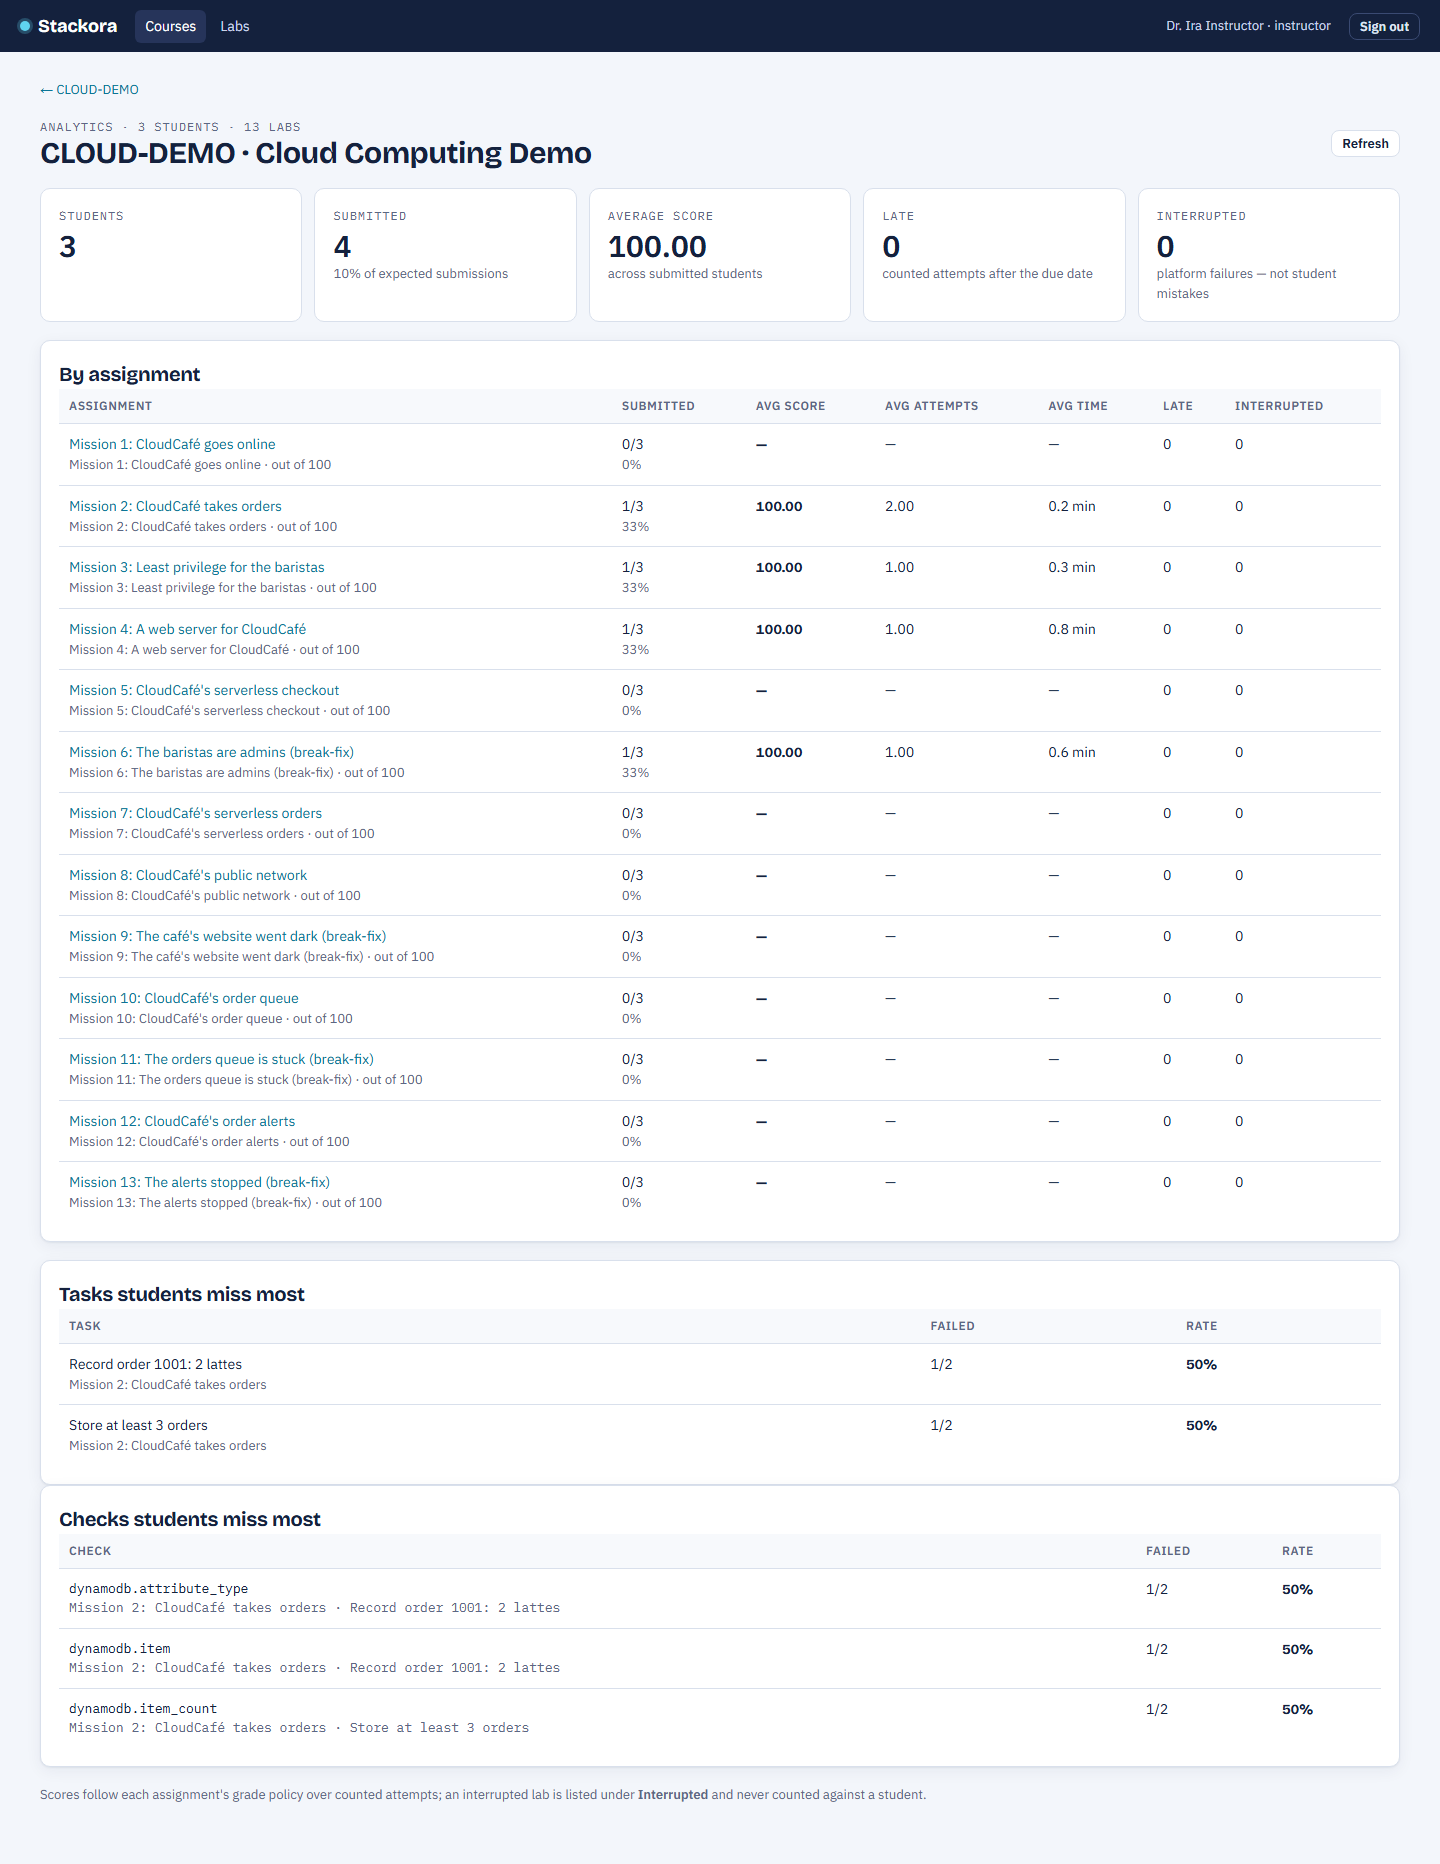
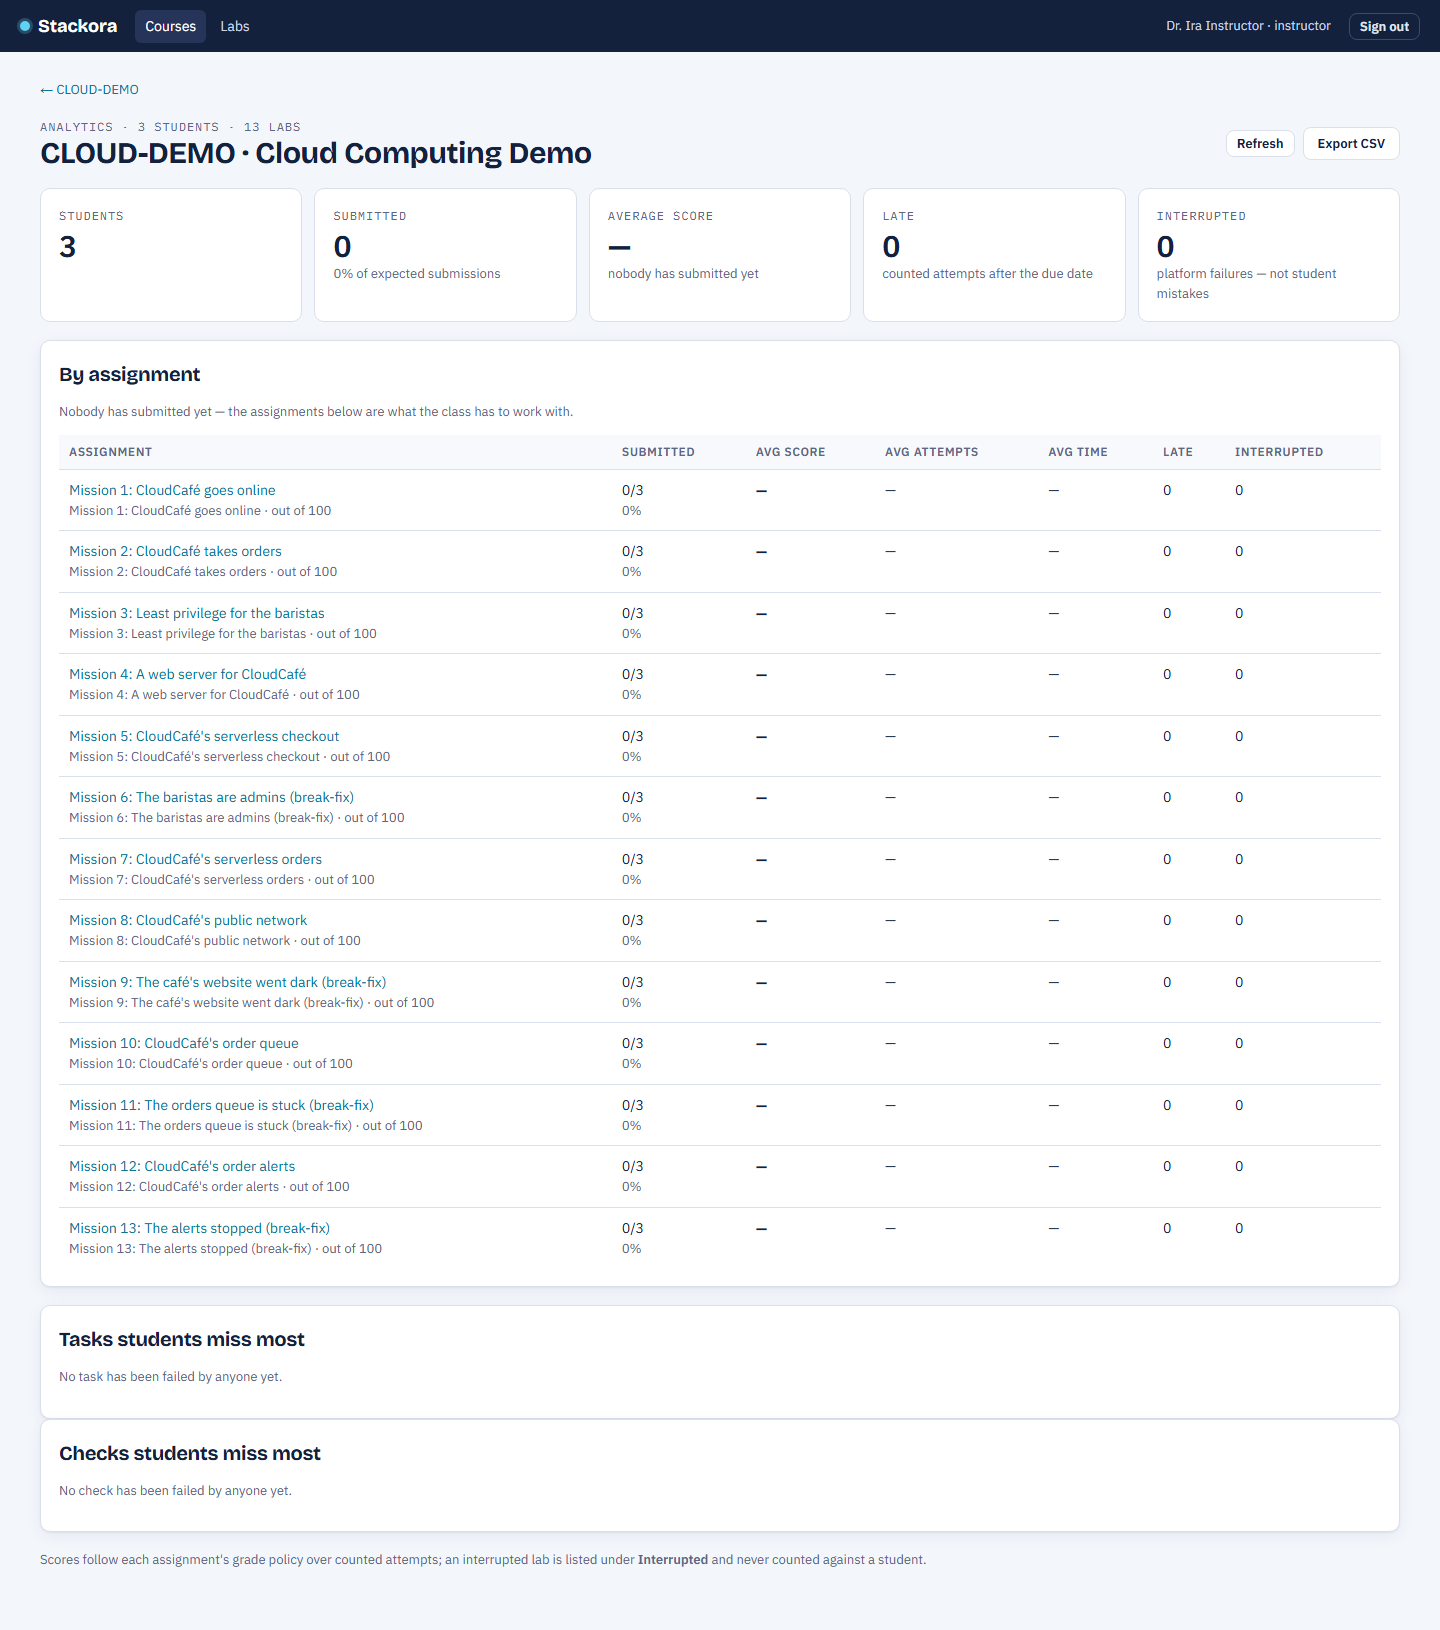
feat(analytics): export course analytics as CSV; pin CI to ubuntu-24.04
GET /api/instructor/courses/{id}/analytics.csv (deferred in D52) returns one
row per assignment plus an "All labs" totals row from the same computation
as the page, with the gradebook's formula neutralisation (safe() is now
shared) and the same access rule. The analytics page gets an Export CSV
button.

CI jobs pin ubuntu-24.04 ahead of ubuntu-latest moving to Ubuntu 26.

Verified: analytics + gradebook + authz coverage 20 passed; ruff and tsc
clean; E2E instructor-analytics + instructor-ops 3 passed (STATUS M8).

diff --git a/apps/web/e2e/instructor-analytics.spec.ts b/apps/web/e2e/instructor-analytics.spec.ts
@@ -49,6 +49,15 @@ test("instructor opens course analytics: metrics, assignment table and ranked vi
   await expect(page.getByTestId("most-missed-checks")).toBeVisible();
   await expect(page.getByText("an interrupted lab is listed under", { exact: false })).toBeVisible();
 
+  // the table exports as CSV: one row per lab plus the "All labs" totals row
+  const download = page.waitForEvent("download");
+  await page.getByTestId("export-analytics").click();
+  const csv = (await import("node:fs")).readFileSync((await (await download).path())!, "utf-8").replace(/^/, "");
+  const lines = csv.trim().split(/\r?\n/);
+  expect(lines[0]).toBe("course_code,assignment,lab,max_score,students,submitted,submission_rate_pct,counted_attempts,avg_attempts_used,avg_score,avg_completion_minutes,late_submissions,interruptions,interruption_reasons");
+  expect(lines.length).toBe(await page.getByTestId("assignment-stat").count() + 2);
+  expect(lines[lines.length - 1]).toContain("CLOUD-DEMO,All labs");
+
   // back to the course
   await page.getByRole("link", { name: /← CLOUD-DEMO/ }).click();
   await page.waitForURL(/\/instructor\/courses\/[^/]+$/);

diff --git a/apps/web/app/instructor/courses/[id]/analytics/page.tsx b/apps/web/app/instructor/courses/[id]/analytics/page.tsx
@@ -57,7 +57,10 @@ export default function Analytics() {
               <div className="eyebrow">Analytics · {t.students} students · {t.assignments} {t.assignments === 1 ? "lab" : "labs"}</div>
               <h1>{s.course.code} · {s.course.title}</h1>
             </div>
-            <button className="small" onClick={() => void load()}>Refresh</button>
+            <div className="row" style={{ gap: 8 }}>
+              <button className="small" onClick={() => void load()}>Refresh</button>
+              {!empty && <a className="btn small" href={`/api/instructor/courses/${id}/analytics.csv`} data-testid="export-analytics">Export CSV</a>}
+            </div>
           </div>
           <ErrorBanner error={error} />
 

diff --git a/services/api/app/instructor/gradebook.py b/services/api/app/instructor/gradebook.py
@@ -174,16 +174,16 @@ async def gradebook(course_id: uuid.UUID, user: User = Depends(Authz(Action.resu
     return {"course": {"id": str(c.id), "code": c.code, "title": c.title}, "assignments": cols, "students": rows}
 
 
+def safe(v: Any) -> str:
+    s = "" if v is None else str(v)
+    return "'" + s if s[:1] in ("=", "+", "-", "@", "\t", "\r") else s  # spreadsheet formula injection
+
+
 def _csv(course: Course, assignments: list[Assignment], students: list[User], cells: dict[tuple, Cell],
          labs: dict[uuid.UUID, str]) -> str:
     buf = io.StringIO()
     w = csv.writer(buf, lineterminator="\r\n")
     w.writerow(CSV_COLUMNS)
-
-    def safe(v: Any) -> str:
-        s = "" if v is None else str(v)
-        return "'" + s if s[:1] in ("=", "+", "-", "@", "\t", "\r") else s  # spreadsheet formula injection
-
     for u in students:
         for a in assignments:
             x = cells[(u.id, a.id)]
@@ -241,3 +241,41 @@ async def course_analytics(course_id: uuid.UUID, user: User = Depends(Authz(Acti
     so this never reaches a sandbox."""
     c = await load_course_for_staff(db, user, course_id)
     return await compute_analytics(db, c)
+
+
+ANALYTICS_CSV_COLUMNS = ["course_code", "assignment", "lab", "max_score", "students", "submitted",
+                         "submission_rate_pct", "counted_attempts", "avg_attempts_used", "avg_score",
+                         "avg_completion_minutes", "late_submissions", "interruptions", "interruption_reasons"]
+
+
+def _pct(rate: float) -> float:
+    return round(rate * 100, 1)
+
+
+def _analytics_csv(stats: dict[str, Any]) -> str:
+    """One row per assignment, then an "All labs" totals row. The ranked failure lists stay on the page
+    (they are top-N views, not a table); interruptions keep their own columns, apart from the scores."""
+    buf = io.StringIO()
+    w = csv.writer(buf, lineterminator="\r\n")
+    w.writerow(ANALYTICS_CSV_COLUMNS)
+    code = stats["course"]["code"]
+    for r in stats["assignments"]:
+        reasons = "; ".join(f"{k}: {v}" for k, v in r["interruption_reasons"].items())
+        w.writerow([safe(v) for v in (
+            code, r["title"], r["lab_title"], r["max_score"], r["students"], r["submitted"],
+            _pct(r["submission_rate"]), r["attempts"], r["avg_attempts_used"], r["avg_score"],
+            r["avg_completion_minutes"], r["late_submissions"], r["interruptions"], reasons)])
+    t = stats["totals"]
+    w.writerow([safe(v) for v in (
+        code, "All labs", "", "", t["students"], t["submissions"], _pct(t["submission_rate"]), "", "",
+        t["avg_score"], "", t["late_submissions"], t["interruptions"], "")])
+    return buf.getvalue()
+
+
+@router.get("/courses/{course_id}/analytics.csv")
+async def course_analytics_csv(course_id: uuid.UUID, user: User = Depends(Authz(Action.results_view)),
+                               db: AsyncSession = Depends(get_db)):
+    """The per-assignment analytics table as CSV, from the same computation as the page (same access rule)."""
+    c = await load_course_for_staff(db, user, course_id)
+    text = _analytics_csv(await compute_analytics(db, c))
+    return _download(text, f"{_slug(c.code)}-analytics-{st.now():%Y%m%d}.csv")

diff --git a/services/api/tests/test_course_analytics.py b/services/api/tests/test_course_analytics.py
@@ -7,6 +7,8 @@ number of queries, so it does not become an N+1 as a class gets bigger.
 
 from __future__ import annotations
 
+import csv
+import io
 from dataclasses import replace
 from datetime import timedelta
 from decimal import Decimal
@@ -165,6 +167,41 @@ async def test_analytics_is_owner_scoped(world, fake_runner):
     assert (await admin.get(f"{B}/courses/{world.course.id}/analytics")).status_code == 200
     own = await login(world.instructor)
     assert (await own.get(f"{B}/courses/{world.course.id}/analytics")).status_code == 200
+    csv_url = f"{B}/courses/{world.course.id}/analytics.csv"
+    assert (await other.get(csv_url)).status_code == 404
+    assert (await stu.get(csv_url)).status_code == 403
+    assert (await admin.get(csv_url)).status_code == 200
+
+
+async def test_analytics_csv_matches_the_page(world, fake_runner):
+    """The export is the per-assignment table plus an "All labs" totals row, from the same computation as
+    the JSON, and a title that looks like a spreadsheet formula is neutralised like the gradebook's."""
+    await submit(world, "partial")
+    await submit(world, "full")
+    async with sessionmaker()() as db:
+        a = await db.get(Assignment, world.assignment.id)
+        a.title = "=HYPERLINK(\"x\")"
+        await db.commit()
+
+    c = await login(world.instructor)
+    page = (await c.get(f"{B}/courses/{world.course.id}/analytics")).json()
+    r = await c.get(f"{B}/courses/{world.course.id}/analytics.csv")
+    assert r.status_code == 200 and r.headers["content-type"].startswith("text/csv")
+    assert "analytics" in r.headers["content-disposition"]
+    rows = list(csv.DictReader(io.StringIO(r.text.lstrip(""))))
+    assert len(rows) == 2
+
+    row, total = rows
+    want = page["assignments"][0]
+    assert row["assignment"] == "'=HYPERLINK(\"x\")"
+    assert row["course_code"] == world.course.code and row["lab"] == want["lab_title"]
+    assert row["max_score"] == "100.00" and row["submitted"] == "1" and row["counted_attempts"] == "2"
+    assert row["submission_rate_pct"] == "50.0" and row["avg_score"] == "100.00"
+    assert row["avg_attempts_used"] == "2.00" and row["interruptions"] == "0"
+
+    assert total["assignment"] == "All labs"
+    assert total["students"] == "2" and total["submitted"] == "1"
+    assert total["submission_rate_pct"] == "50.0" and total["avg_score"] == page["totals"]["avg_score"]
 
 
 async def test_analytics_issues_a_fixed_number_of_queries(world, fake_runner):

diff --git a/docs/STATUS.md b/docs/STATUS.md
@@ -128,8 +128,10 @@ Legend: ☐ todo · ◐ in progress · ☑ done + verified (evidence noted)
 | M2 | Refuse insecure secrets at startup: API (`secret_key`, `runner_secret`) when `CL_DEMO_MODE=false`; runner (`RUNNER_SECRET`) always; known dev defaults / `change-me` / < 32 chars | ☑ | New `tests/test_config.py` in both services; API **12 passed**, full fast suite **363 passed, 53 deselected** (779 s); runner image rebuilt → `python -m pytest -q` **31 passed** (incl. Docker, 238 s). Dev/test secrets in compose raised to valid values; `production.env.example` / `runner.env.example` now document `openssl rand -hex 32` (2026-10-05) |
 | M3 | Web dependencies: `next` 15.5.27 (latest 15.x), npm audit highs fixed (`postcss` 8.5.29, `sharp` 0.35.5 overrides), `npm install` fallback removed from the web Dockerfile; Next 16.x evaluated (report in D56) | ☑ | `npm audit` **0 vulnerabilities**; `npm run typecheck` clean; `next build` clean; `npm ci`-only web image built; full Playwright **35/35 passed** (14.3 min, runner-local-2 registered; first run was 34/35 on a one-off `runtime_unavailable` "no healthy runner" immediately after `fleet.spec`'s drain/resume — not reproduced, logged for M8 investigation); screenshots regenerated by the suite were reverted (dynamic content, unrelated to this item) (2026-10-05) |
 | M4 | Python deps: `pip-audit` on both requirement sets, fix every advisory (only what's needed) plus patch releases | ☑ | Before: pyjwt 2.10.1 (20), cryptography 46.0.1 (13), python-multipart 0.0.20 (12), starlette 0.48.0 (12, both services). After: **pip-audit reports no known vulnerabilities** on `services/api/requirements.txt` and `services/runner/requirements.txt`. Bumps: fastapi 0.142.2 (lifts the starlette `<1.0` cap; starlette resolves to 1.7.0), pyjwt 2.15.1, cryptography 50.0.2, python-multipart 0.0.32, plus patch releases sqlalchemy 2.0.54, pydantic 2.11.10, boto3 1.40.76, pyyaml 6.0.3. Fallout found and fixed: FastAPI 0.142 stores included routers as `_IncludedRouter`, so the flat `app.routes` walks in `test_authz_coverage.py` (which then silently passed **vacuously** — only the allowlist test failed) and `test_signing.py::test_no_exec_endpoint` missed most routes; both now use the public `iter_route_contexts`, and an OpenAPI-surface guard pins the walk so it can't go vacuous again. Full API suite incl. Docker: **415 passed, 1 failed** (the walk test; scored as an M4 fix, re-run green `test_authz_coverage.py` **10 passed**); runner suite **31 passed** (real Docker). Final combined full-suite re-run recorded under M6 (2026-10-05) |
-| M6 | CI + lint + architecture guard: `.github/workflows/ci.yml` (ruff, architecture test, fast API suite on Postgres, runner unit tests, web typecheck + build), `ruff.toml` (E4/E7/E9/F), `tests/test_architecture.py` (the file CLAUDE.md named did not exist) | ◐ | `ruff check services` (0.16.10) **all checks passed** after removing unused imports/variables (no behaviour change; `I` → `INS` in the role matrix for E741). `tests/test_architecture.py` in the API container **3 passed, 1 skipped** (runner half skipped there, runs in CI). Full fast suite with the lint edits **367 passed, 1 skipped, 53 deselected** (722 s); runner `-m "not docker"` **20 passed**. The workflow itself has not run on GitHub yet: it turns ☑ after its first green run |
+| M6 | CI + lint + architecture guard: `.github/workflows/ci.yml` (ruff, architecture test, fast API suite on Postgres, runner unit tests, web typecheck + build), `ruff.toml` (E4/E7/E9/F), `tests/test_architecture.py` (the file CLAUDE.md named did not exist) | ◐ | `ruff check services` (0.16.10) **all checks passed** after removing unused imports/variables (no behaviour change; `I` → `INS` in the role matrix for E741). `tests/test_architecture.py` in the API container **3 passed, 1 skipped** (runner half skipped there, runs in CI). Full fast suite with the lint edits **367 passed, 1 skipped, 53 deselected** (722 s); runner `-m "not docker"` **20 passed**. First GitHub run (`37367075073`): **Web typecheck + build** and **Runner unit tests** green; API and Ruff were cancelled before starting (*job was not acquired by Runner of type hosted* — a GitHub capacity issue). Jobs pinned to `ubuntu-24.04` (`ubuntu-latest` moves to Ubuntu 26 on 2026-10-19). Turns ☑ after a fully green run |
 | M5 | Terminal image: AWS CLI pinned (2.37.1, the version the suites were green on) and ttyd 1.7.7, both **sha256-verified**; amd64 + arm64 via `TARGETARCH`; versions as image labels | ☑ | amd64 build: `aws-cli/2.37.1`, `ttyd 1.7.7`, uid 10002; a wrong ttyd hash **fails the build**; arm64 (`buildx --platform linux/arm64`) builds and runs (`aarch64`, same versions). `cloudlabs/terminal:dev` rebuilt from it → docker-marked API suite **53 passed** (46 min: real terminal WebSocket, job containers, sandbox grading). With the fast run: **420 passed, 1 skipped** in total. Browser E2E not re-run on this image (2026-10-06) |
+| M7 | Per-checkout Compose overrides moved to `infra/dev-isolation/` (+ README) and repaired | ☑ | Two regressions from M1/M2 found while moving: runner secrets of 21–29 chars (refused since M2) lengthened to ≥ 38; `api` and `api-test` shared one image tag per override although they build `runtime` and `test` — `api-test` now has its own tag. `docker compose config` resolves all three with unchanged build contexts and distinct images |
+| M8 | Analytics CSV export (deferred in D52): `GET /api/instructor/courses/{id}/analytics.csv` + *Export CSV* on the analytics page | ☑ | One row per assignment plus an *All labs* totals row, same computation as the JSON, same formula neutralisation as the gradebook (`safe()` now shared), same access rule. `tests/test_course_analytics.py` new CSV test + scope assertions (404 other instructor, 403 student, 200 admin); with gradebook + authz coverage **20 passed**; ruff clean; `tsc --noEmit` clean; E2E `instructor-analytics.spec.ts` (downloads and checks header, row count and totals row) + `instructor-ops.spec.ts` **3 passed** on rebuilt images |
 
 ## Implementation decisions log
 - **D1 — Sandbox networking.** Docker can't publish ports from `internal: true` networks. The runner
